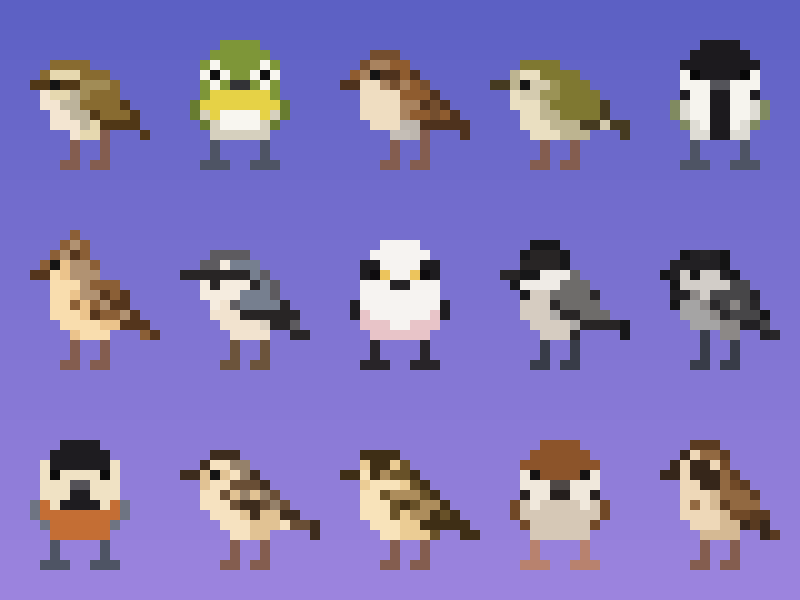
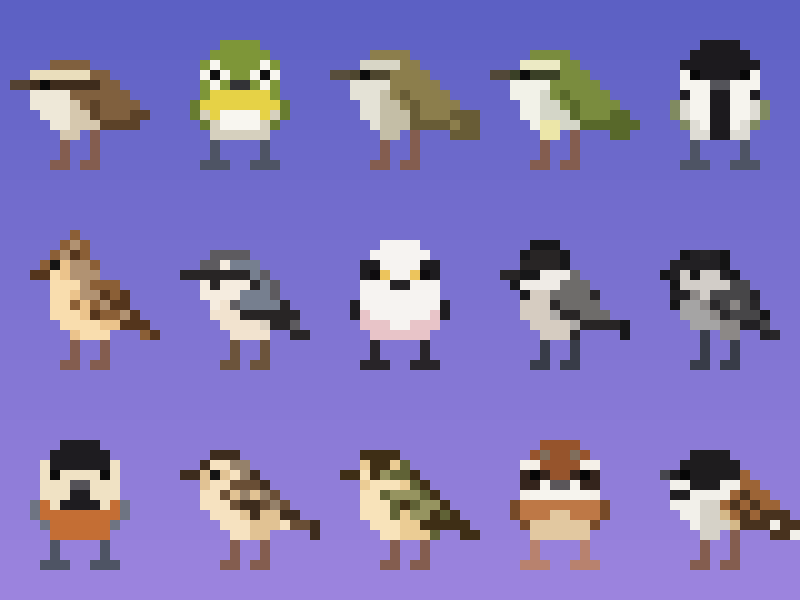
Redraw sheet as 15 requested species
Claude-Session: https://claude.ai/code/session_01CPQTgdf89udDfWNrjbtzt2

diff --git a/make_birds.py b/make_birds.py
@@ -2,8 +2,8 @@
 
 - Reads the original sprites from source/original.gif (15 birds, side view)
 - Erases the old stubby legs and draws proper legs (tarsus + toes)
-- Replaces the Shima-enaga (row 2, col 3) with a normal Japanese Enaga
-- Swaps 5 birds for front-facing versions of the same species
+- Arranges 15 species (see LAYOUT); some reuse original sprites, others are
+  newly drawn, and 5 are front-facing
 - Writes birds.gif (animated: birds crouch/bob with feet planted on the ground)
 """
 from PIL import Image
@@ -199,22 +199,119 @@ FRONT.append((mirror_half([
 }, SLATE))
 
 
-# FRONT index -> slot (row, col) of the same species in the side-view sheet
-FRONT_POS = {
-    0: (2, 3),  # スズメ
-    1: (1, 1),  # シジュウカラ
-    2: (0, 3),  # メジロ
-    3: (1, 2),  # エナガ
-    4: (1, 0),  # ヤマガラ
+# ---------------------------------------------- newly drawn species (side)
+# (ascii rows, palette, (leg_x1, leg_x2), leg colour)
+NEW_SIDE = {}
+
+# センダイムシクイ: olive-green back, pale yellowish brow, dark eye-stripe,
+# whitish underparts, pale-yellow undertail
+NEW_SIDE["ムシクイ"] = ([
+    ".....OOOO.......",
+    "....SSSSOO......",
+    ".BBKEKKKOOO.....",
+    "...WWWWOOOOO....",
+    "...WWWwOoOOOO...",
+    "....WWwwOoOOOO..",
+    "....WWwwwoOOOoo.",
+    ".....WYYwwoooooo",
+    "......YY.....oo.",
+], {
+    "O": (122, 140, 62), "o": (88, 104, 42), "S": (236, 234, 196),
+    "K": (58, 64, 38), "E": (12, 12, 12), "W": (242, 242, 232),
+    "w": (212, 214, 200), "Y": (236, 230, 168), "B": (82, 72, 56),
+}, (6, 9), PINK_BROWN)
+
+# ヤブサメ: tiny, almost no tail, brown back, long buff-white brow,
+# dark eye-stripe
+NEW_SIDE["ヤブサメ"] = ([
+    "................",
+    ".....NNNN.......",
+    "...SSSSSSNN.....",
+    ".BBKEKKKKKNN....",
+    "...WWWWNNNNNN...",
+    "...WWWWwNnNNNN..",
+    "....WWWwwnNNNnn.",
+    ".....WWwwwnnnn..",
+    "......ww........",
+], {
+    "N": (128, 96, 62), "n": (92, 66, 40), "S": (234, 222, 188),
+    "K": (62, 44, 28), "E": (10, 10, 10), "W": (238, 232, 216),
+    "w": (214, 200, 174), "B": (84, 66, 50),
+}, (6, 9), PINK_BROWN)
+
+# ウグイス: plain olive-brown, grey-white brow, long tail
+NEW_SIDE["ウグイス"] = ([
+    ".....UUUU.......",
+    "....SSSSUU......",
+    ".BBKEKKUUUU.....",
+    "...WWWWUUUUU....",
+    "...WWWwUnUUUU...",
+    "....WWwwUnUUUU..",
+    "....WWwwwnUUUnnn",
+    ".....WwwwnnnnUnn",
+    "......ww.....nnn",
+], {
+    "U": (140, 126, 76), "n": (104, 92, 54), "S": (216, 214, 198),
+    "K": (78, 70, 46), "E": (12, 12, 12), "W": (228, 226, 214),
+    "w": (196, 190, 166), "B": (88, 78, 60),
+}, (6, 9), PINK_BROWN)
+
+# オオジュリン (breeding male): black head & throat, white moustache and
+# collar, chestnut back with dark streaks, whitish belly
+NEW_SIDE["オオジュリン"] = ([
+    ".....KKKK.......",
+    "....KKKKKK......",
+    "..bKEKKKKKC.....",
+    "...WWKKKWWCC....",
+    "...KKWWWWCcCC...",
+    "...WWWwwCcCcCC..",
+    "....WWwwBCcCccc.",
+    ".....WwwwBcccWcc",
+    "......ww.....ccW",
+], {
+    "K": (30, 28, 30), "E": (6, 6, 6), "W": (242, 240, 234),
+    "C": (156, 100, 54), "c": (72, 50, 30), "B": (212, 184, 136),
+    "w": (214, 210, 200), "b": (70, 70, 76),
+}, (6, 9), PINK_BROWN)
+
+# ホオジロ (front): chestnut crown, white brow and cheek stripe,
+# dark eye-mask, white throat, chestnut breast, buff belly
+FRONT_HOOJIRO = (mirror_half([
+    "......CC",
+    ".....CgC",
+    "....SSCC",
+    "....KEKC",
+    "....KKWB",
+    "....SWWW",
+    "...rRRRR",
+    "...rRRRb",
+    "....rbbb",
+    ".....bbb",
+]), {
+    "C": (150, 84, 44), "g": (128, 110, 92), "S": (244, 240, 232),
+    "K": (52, 36, 28), "E": (6, 6, 6), "W": (246, 244, 238),
+    "B": (90, 86, 90), "R": (190, 120, 70), "r": (118, 74, 40),
+    "b": (226, 200, 160),
+}, PINK_BROWN)
+
+# ビンズイ: re-tint the old pipit sprite to an olive-green back
+BINZUI_TINT = {
+    (173, 141, 92): (150, 148, 96),
+    (104, 81, 40): (96, 98, 54),
 }
 
-
-# slot rearrangement: front birds end up at (0,1) (0,4) (1,2) (2,0) (2,3)
-SWAP = {
-    (0, 3): (0, 1), (0, 1): (0, 3),  # メジロ <-> olive side bird
-    (1, 1): (0, 4), (0, 4): (1, 1),  # シジュウカラ <-> nuthatch
-    (1, 0): (2, 0), (2, 0): (1, 0),  # ヤマガラ <-> crested lark-ish bird
+# final 3x5 arrangement (front-facing birds kept apart from each other)
+LAYOUT = [
+    ["ヤブサメ", "メジロ", "ウグイス", "ムシクイ", "シジュウカラ"],
+    ["ヒバリ", "ゴジュウカラ", "エナガ", "コガラ", "ヒガラ"],
+    ["ヤマガラ", "タヒバリ", "ビンズイ", "ホオジロ", "オオジュリン"],
+]
+# birds taken from the original sheet (slot in the original)
+ORIGINAL_OF = {
+    "ゴジュウカラ": (0, 4), "コガラ": (1, 3), "ヒガラ": (1, 4),
+    "ヒバリ": (2, 0), "タヒバリ": (2, 1), "ビンズイ": (2, 2),
 }
+FRONT_OF = {"シジュウカラ": 1, "メジロ": 2, "エナガ": 3, "ヤマガラ": 4}
 
 
 def body_bottom(g, x):
@@ -277,6 +374,14 @@ def build_enaga(crouch):
     return draw_side_legs(g, legs, BLACK_LEG, GROUND, crouch)
 
 
+def build_new_side(spec, crouch):
+    rows, pal, legs, color = spec
+    g = from_ascii(rows, pal)
+    bottom = max(body_bottom(g, x) or 0 for x in legs)
+    dy = (GROUND - 3) - bottom + (1 if crouch else 0)
+    return draw_side_legs(shift(g, dy), legs, color, GROUND, crouch)
+
+
 def build_front(spec, crouch):
     rows, pal, color = spec
     g = from_ascii(rows, pal)
@@ -297,14 +402,21 @@ def render(crouch):
         col = tuple(round(a + (b - a) * t) for a, b in zip(BG_TOP, BG_BOTTOM))
         img.paste(col, (0, r * CELL, W, (r + 1) * CELL))
     grid = {}
-    for key, cfg in SIDE.items():
-        grid[key] = build_side(sprites[key], cfg, crouch)
-    grid[(1, 2)] = build_enaga(crouch)
-    # front-facing birds replace the side-view bird of the same species
-    for i, pos in FRONT_POS.items():
-        grid[pos] = build_front(FRONT[i], crouch)
-    # spread front-facing birds out so they don't cluster (no two side by side)
-    grid = {SWAP.get(k, k): v for k, v in grid.items()}
+    for r, row in enumerate(LAYOUT):
+        for c, name in enumerate(row):
+            if name in ORIGINAL_OF:
+                key = ORIGINAL_OF[name]
+                spr = sprites[key]
+                if name == "ビンズイ":
+                    spr = {k: BINZUI_TINT.get(v, v) for k, v in spr.items()}
+                g = build_side(spr, SIDE[key], crouch)
+            elif name in FRONT_OF:
+                g = build_front(FRONT[FRONT_OF[name]], crouch)
+            elif name == "ホオジロ":
+                g = build_front(FRONT_HOOJIRO, crouch)
+            else:
+                g = build_new_side(NEW_SIDE[name], crouch)
+            grid[(r, c)] = g
     px = img.load()
     for (r, c), g in grid.items():
         for (x, y), col in g.items():
